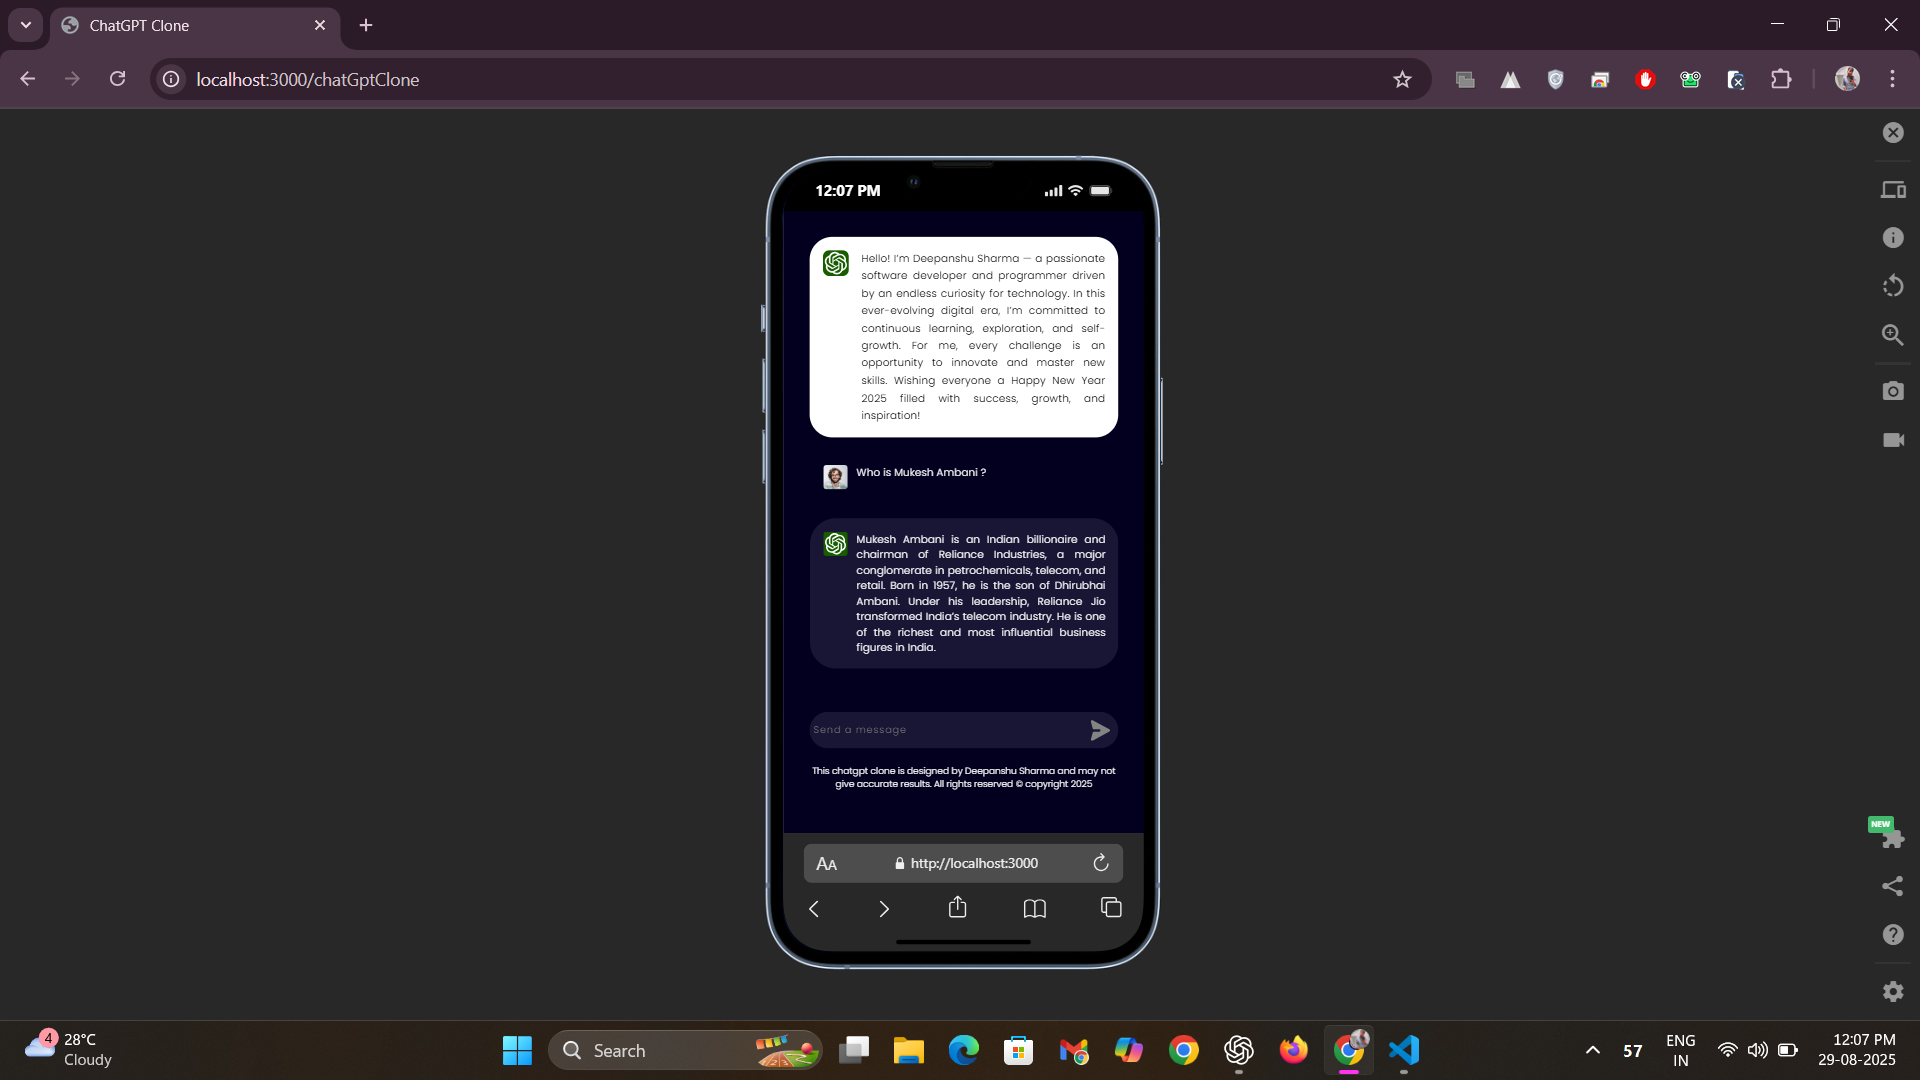
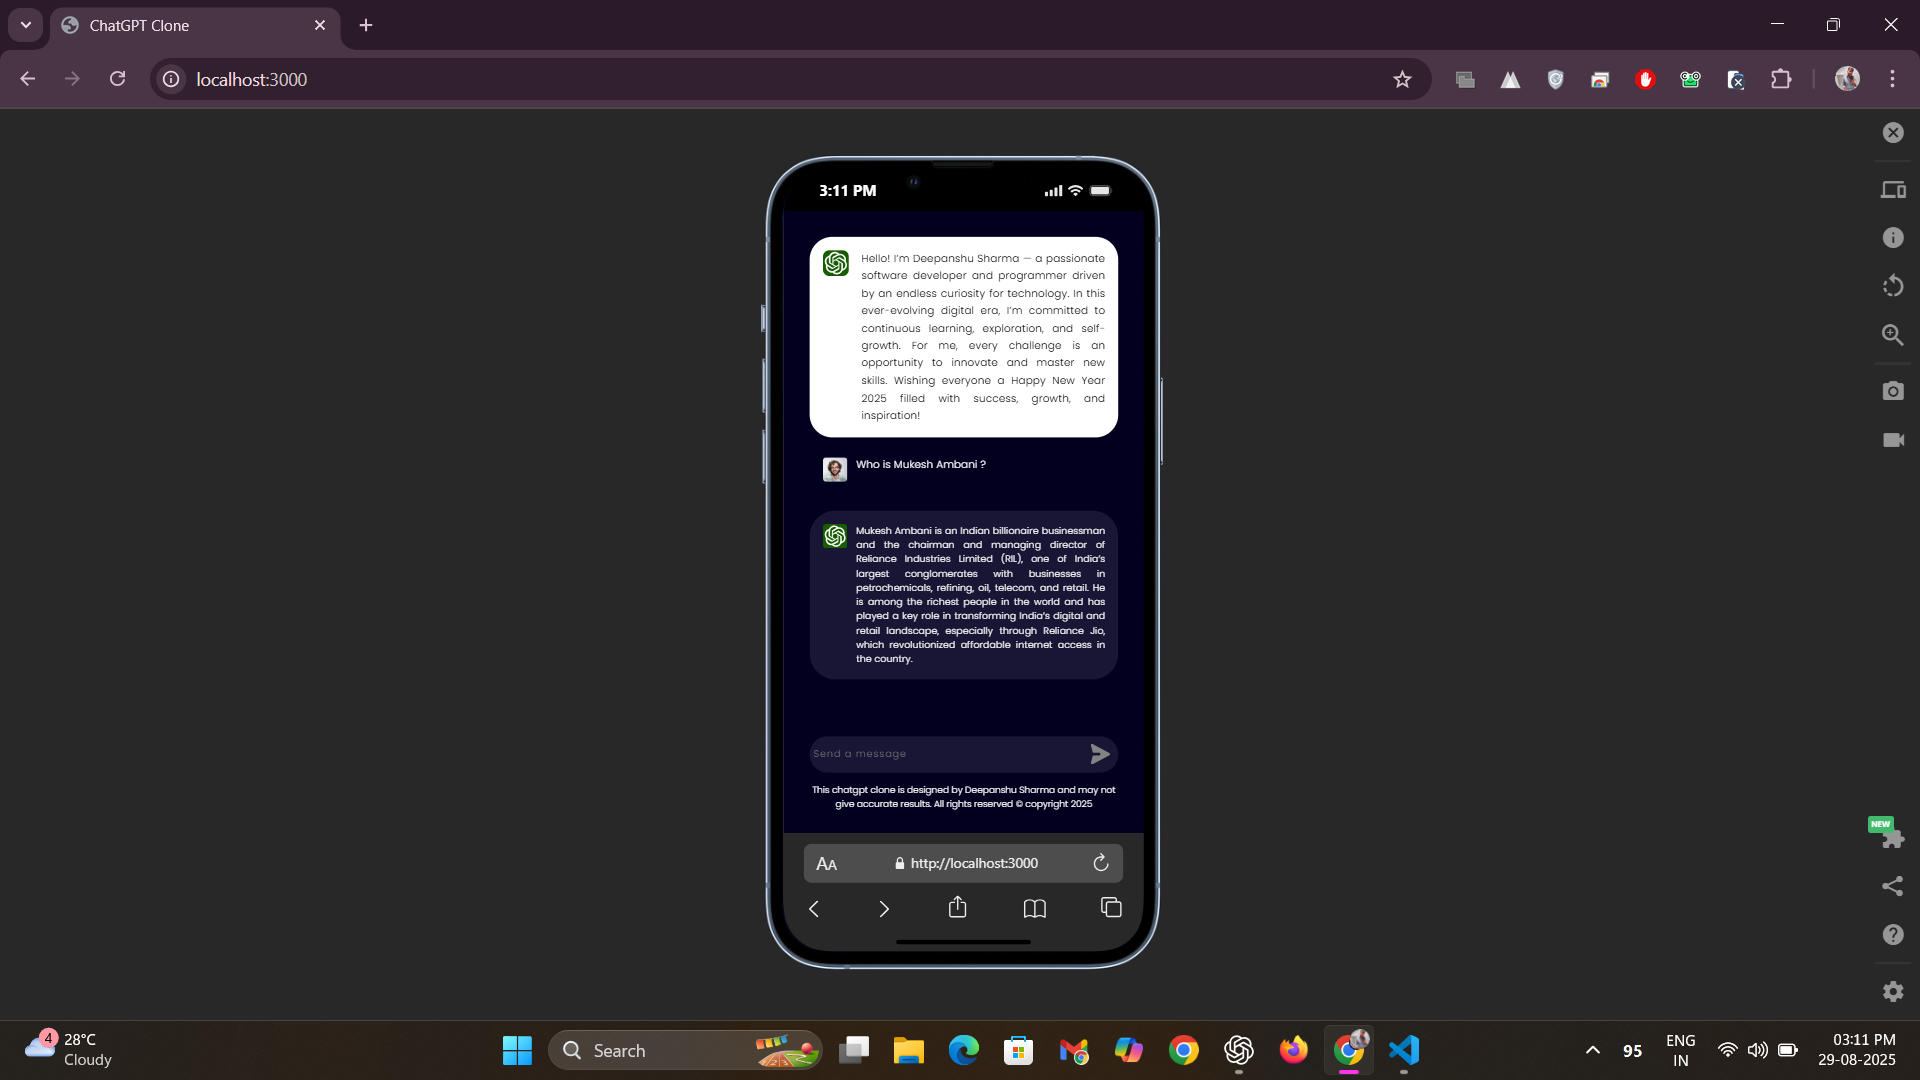
Css fixed!

diff --git a/src/index.css b/src/index.css
@@ -353,4 +353,12 @@ i {
   .footer {
     margin-bottom: -2rem;  /* ✅ consistent bottom */
   }
+
+ user-text p, 
+  .bot-text p {
+    line-height: 2.2rem;   /* compact lines */
+    margin: 0;             /* no extra gaps */
+    font-size: 1.44rem;     /* readable size */
+    
+  }
 }
